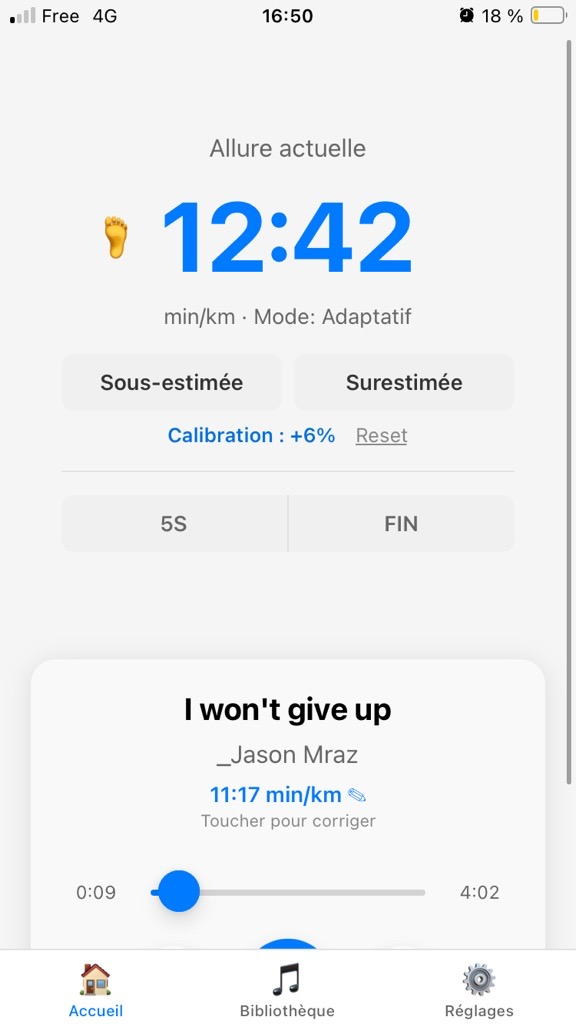
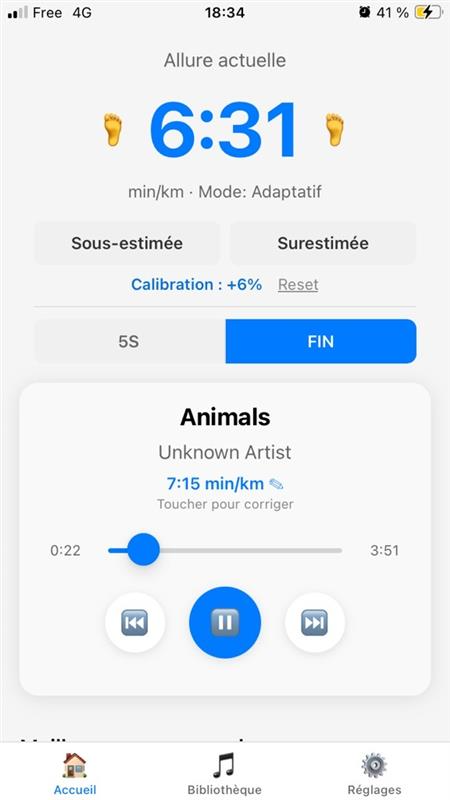
feat: tighter home screenshots after player spacing OTA.

diff --git a/index.html b/index.html
@@ -64,7 +64,7 @@
           src="screenshot-home.png"
           width="390"
           height="844"
-          alt="BeatOnStep : cadence cible et lecteur"
+          alt="BeatOnStep : allure en min/km et lecteur"
         />
       </div>
     </section>
@@ -96,13 +96,13 @@
     <section class="shots" aria-label="Aperçu de l’app">
       <figure class="shot">
         <div class="phone">
-          <img src="screenshot-home.png" width="390" height="844" alt="Accueil : cadence cible et morceau en lecture" />
+          <img src="screenshot-home.png" width="390" height="844" alt="Accueil : allure actuelle et morceau en lecture" />
         </div>
         <figcaption>
-          <strong data-fr>Cadence</strong>
-          <strong data-en>Cadence</strong>
-          <span data-fr>Tu poses le PPM. L’app envoie un titre dans la même fourchette.</span>
-          <span data-en>You set the PPM. The app queues a track in the same range.</span>
+          <strong data-fr>En course</strong>
+          <strong data-en>On a run</strong>
+          <span data-fr>L’allure en direct, un titre qui suit le rythme.</span>
+          <span data-en>Live pace, a track that matches the stride.</span>
         </figcaption>
       </figure>
       <figure class="shot">
